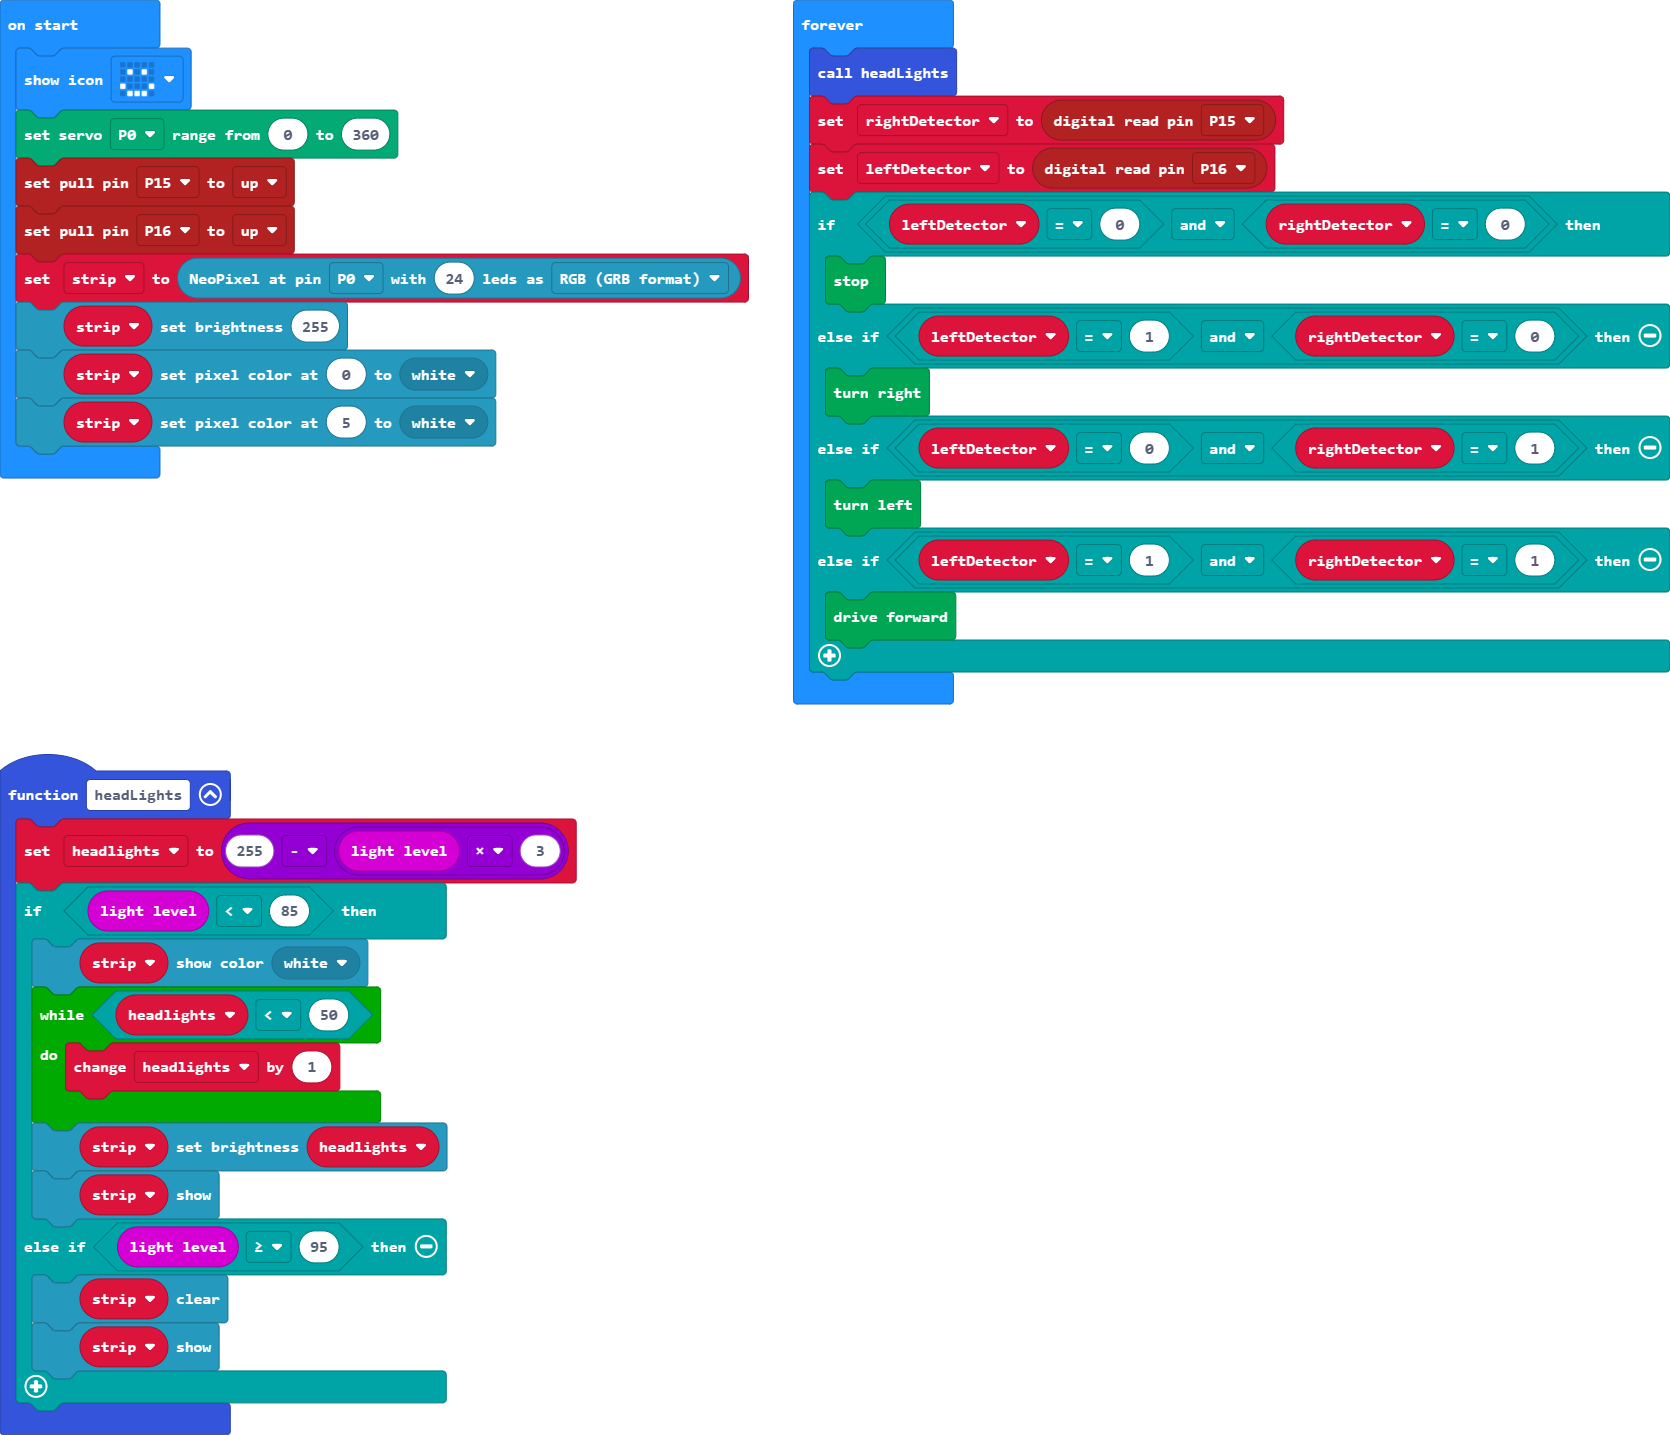
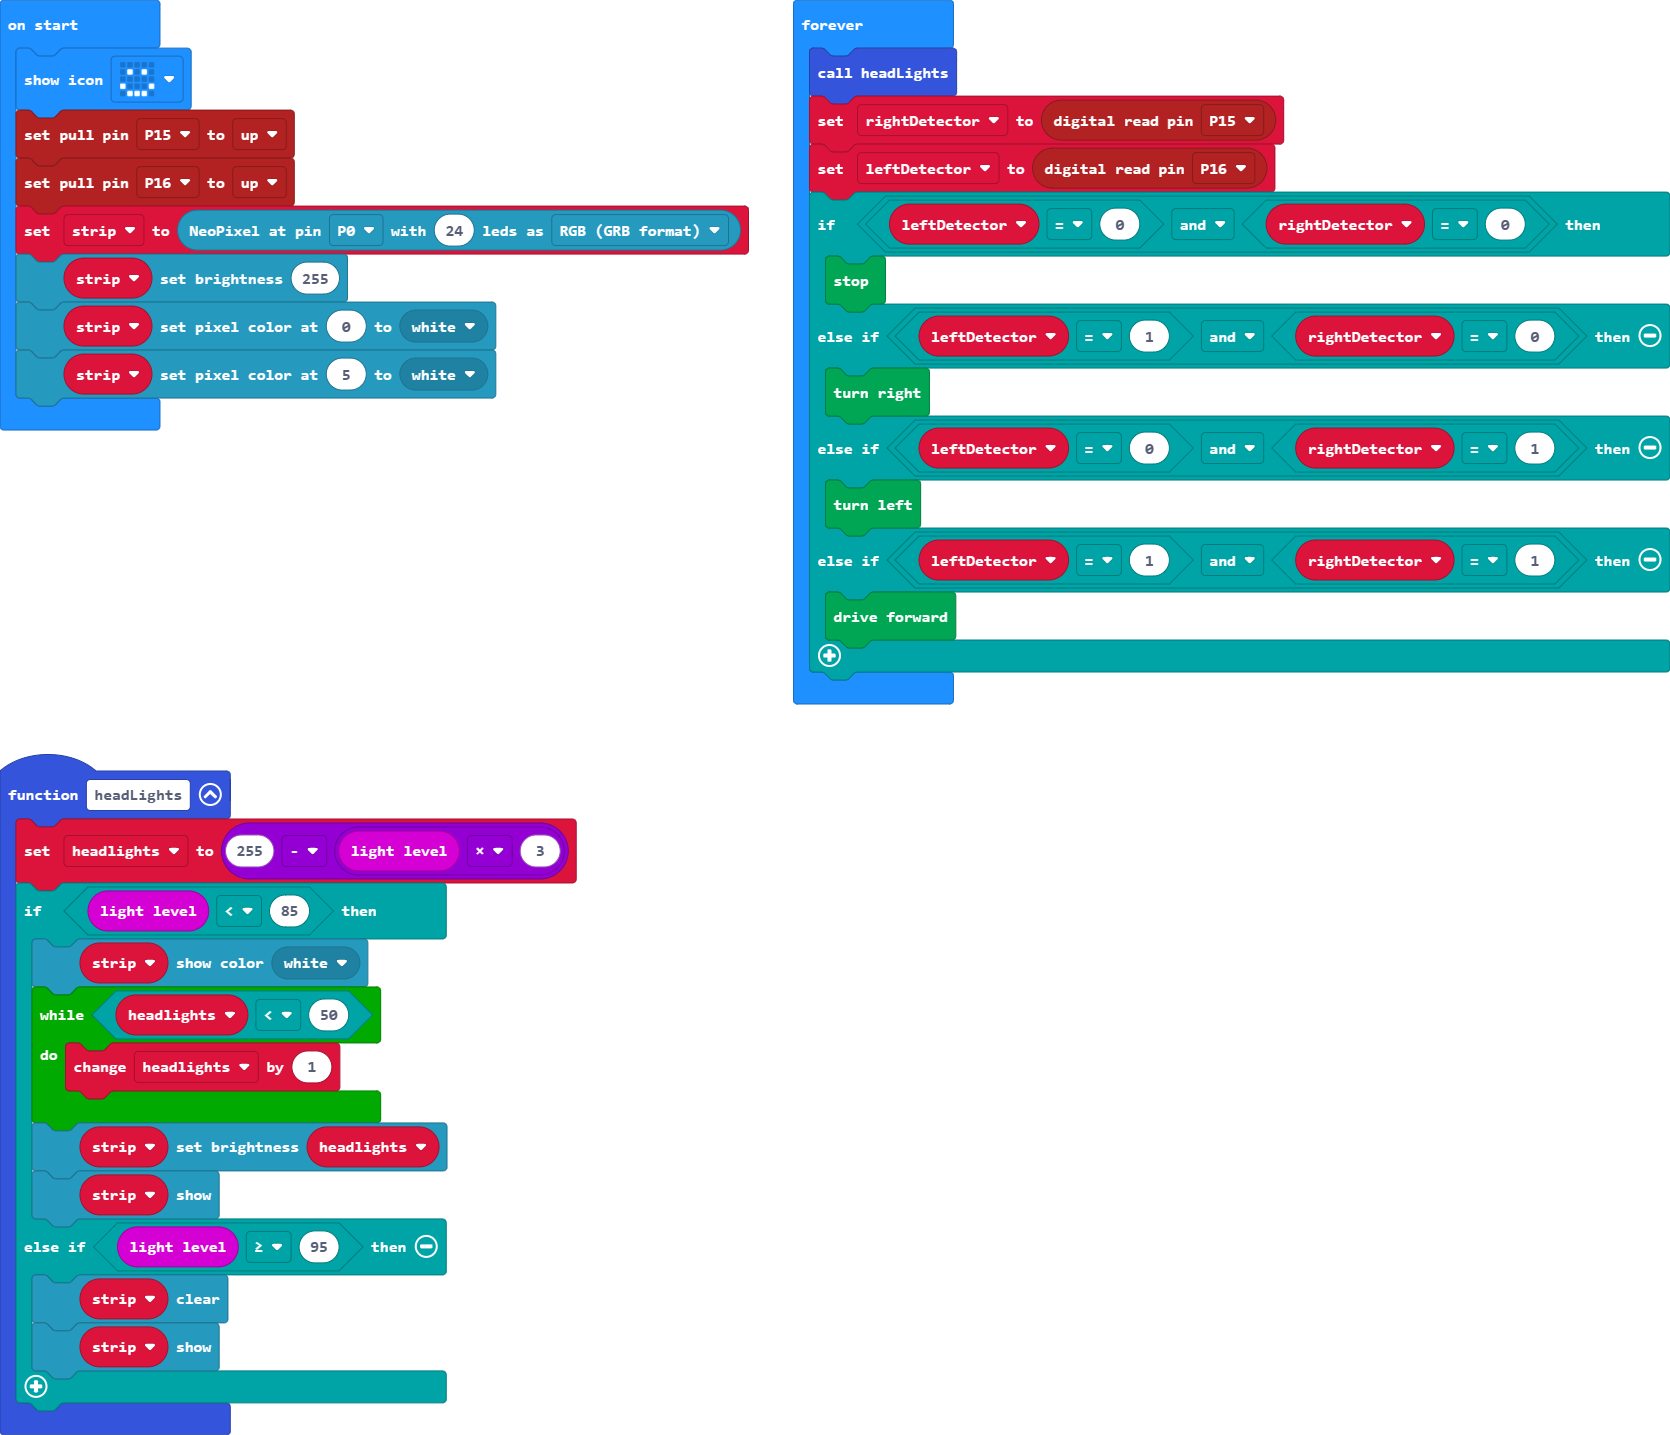
Update main.blocks, main.ts

Changed region(s): [[0.0, 0.0613, 0.4671, 0.2453], [0.0, 0.276, 0.3114, 0.3373]]

diff --git a/main.ts b/main.ts
@@ -20,7 +20,6 @@ let rightDetector = 0
 let headlights = 0
 let strip: neopixel.Strip = null
 basic.showIcon(IconNames.Happy)
-servos.P0.setRange(0, 360)
 pins.setPull(DigitalPin.P15, PinPullMode.PullUp)
 pins.setPull(DigitalPin.P16, PinPullMode.PullUp)
 strip = neopixel.create(DigitalPin.P0, 24, NeoPixelMode.RGB)
